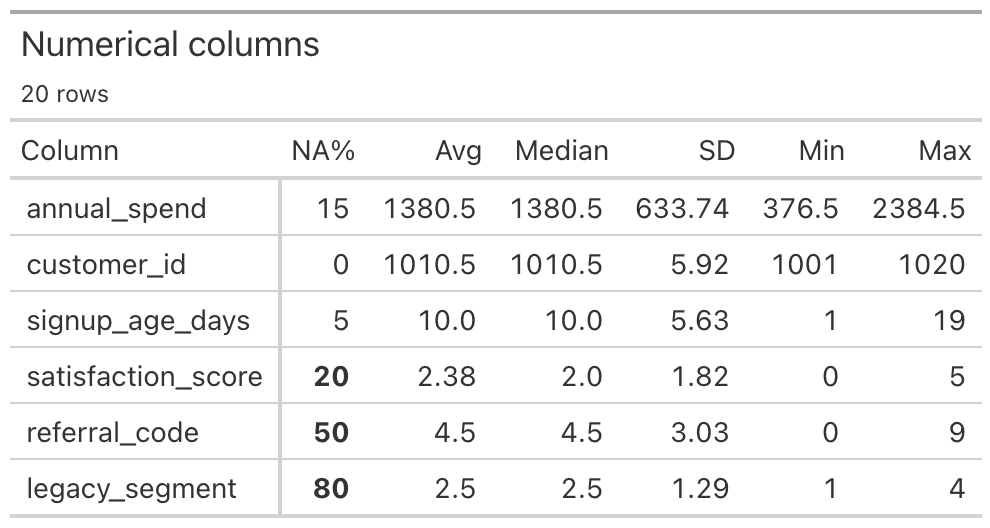
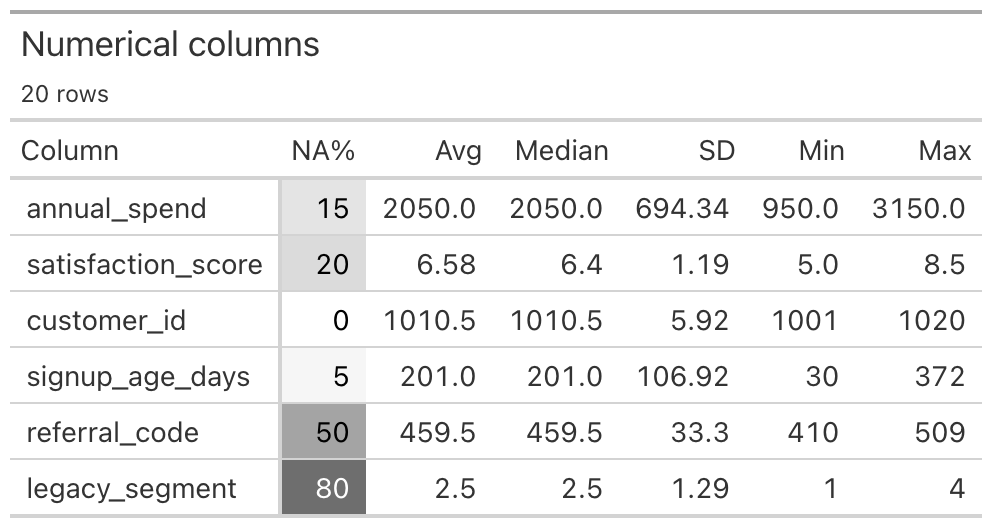
Show more dataframe backends in the README (#93) (#100)

diff --git a/README.md b/README.md
@@ -5,11 +5,17 @@
 vertical orientation.
 
 ``` python
+import duckdb
+import pandas as pd
 import polars as pl
-from showstats import show_stats, table_one
 
+from showstats import show_stats, table_one
+```
+
+``` python
 # Daily weather in Seattle, 2012-2015
-df = pl.read_csv("docs/data/seattle-weather.csv", try_parse_dates=True)
+weather_path = "docs/data/seattle-weather.csv"
+df = pl.read_csv(weather_path, try_parse_dates=True)
 
 show_stats(df)
 ```
@@ -28,39 +34,14 @@ show_stats(df)
      weather  0    5        rain (44%)  sun (44%)  fog (7%) 
 
 ``` python
-# Only one type
-show_stats(df, "cat")  # Other are num, time
-```
-
-    -Categorical columns (N=1461)---------------------------------------------------
-     Col      NA%  Uniques  Top 1       Top 2      Top 3    
-     weather  0    5        rain (44%)  sun (44%)  fog (7%) 
-
-``` python
-# Any subset of columns works
-show_stats(df.select("temp_max", "wind"))
-```
-
-    -Numerical columns (N=1461)-----------------------------------------------------
-     Col       NA%  Avg    Median  SD    Min   Max  
-     temp_max  0    16.44  15.6    7.35  -1.6  35.6 
-     wind      0    3.24   3.0     1.44  0.4   9.5  
-
-``` python
-# Add extra quantiles for numerical columns
+# Select a table type, columns, or extra quantiles.
+show_stats(df, "cat")  # Other options are num and time.
 show_stats(df.select("temp_max", "wind"), "num", quantiles=[0.1, 0.9])
 ```
 
-    -Numerical columns (N=1461)-----------------------------------------------------
-     Col       NA%  Avg    Median  SD    Q0    Q10  Q90   Q100 
-     temp_max  0    16.44  15.6    7.35  -1.6  7.2  26.7  35.6 
-     wind      0    3.24   3.0     1.44  0.4   1.7  5.2   9.5  
-
-Use the standalone `table_one` function for a numerical and categorical
-Table 1 summary. Set `style` to `mean_sd`, `median_mad`, or
-`median_iqr`. Use `group` to report the statistics in separate columns
-for each value of another variable. The grouping variable is not
-included as a row.
+Use `table_one` for a numerical and categorical Table 1 summary. The
+`style` can be `mean_sd`, `median_mad`, or `median_iqr`. Use `group` to
+report the statistics for each value of another variable.
 
 ``` python
 table_one_df = pl.DataFrame(
@@ -83,43 +64,39 @@ table_one(table_one_df, style="mean_sd", group="arm")
      outcome = no (%)        1 (25%)       1 (50%)              0 (0%)              
 
 The `NA%` column gives the percentage of missing values. Set
-`show_missing=False` to omit it. Categorical variables show their three
-most common values by default. Use `n_categories` to change that number.
-Set `fmt="gt"` to return a Great Tables object.
+`show_missing=False` to omit it. Use `n_categories` to change the number
+of categorical values shown.
 
 ``` python
-# pandas, pyarrow and other narwhals-supported frames work the same way
-import pandas as pd
+# Polars detects dates. pandas needs the date column name.
+pandas_df = pd.read_csv(weather_path, parse_dates=["date"])
+show_stats(pandas_df[["date", "temp_max", "wind"]])
 
-show_stats(pd.read_csv("docs/data/seattle-weather.csv")[["temp_max", "wind"]])
+# DuckDB relations are lazy.
+duckdb_df = duckdb.read_csv(weather_path).select("date, temp_max, wind")
+show_stats(duckdb_df)
 ```
-
-    -Numerical columns (N=1461)-----------------------------------------------------
-     Col       NA%  Avg    Median  SD    Min   Max  
-     temp_max  0    16.44  15.6    7.35  -1.6  35.6 
-     wind      0    3.24   3.0     1.44  0.4   9.5  
 
 ## Optional Great Tables output
 
-Install the optional output package with `uv add "showstats[gt]"`. The
-`gt` output returns a Great Tables object that displays as HTML in a
-notebook. Set `color_missing=True` to add an optional white to dark gray
-background scale.
+Install the optional package with `uv add "showstats[gt]"`. Set
+`fmt="gt"` in `show_stats` or `table_one` to return a Great Tables
+object. Set `color_missing=True` to add a white to dark gray background
+scale.
 
 ``` python
-table = show_stats(df, "num", fmt="gt")
+table = show_stats(df, "num", fmt="gt", color_missing=True)
 table
 ```
 
 ![Great Tables output](docs/images/gt-output.png)
 
-- **showstats** works with any data frame
-  [narwhals](https://github.com/narwhals-dev/narwhals) supports —
-  polars, pandas, pyarrow and more. They all work directly, with no
-  extra installs or conversion step.
+- **showstats** works with data frames supported by
+  [narwhals](https://github.com/narwhals-dev/narwhals), including
+  polars, pandas, and lazy DuckDB relations.
 
-- Heavily inspired by the great R-packages
-  [skimr](https://github.com/ropensci/skimr) and
+- Inspired by the R packages [skimr](https://github.com/ropensci/skimr)
+  and
   [modelsummary](https://modelsummary.com/vignettes/datasummary.html).
 
 - Numbers with many digits are automatically converted to scientific
